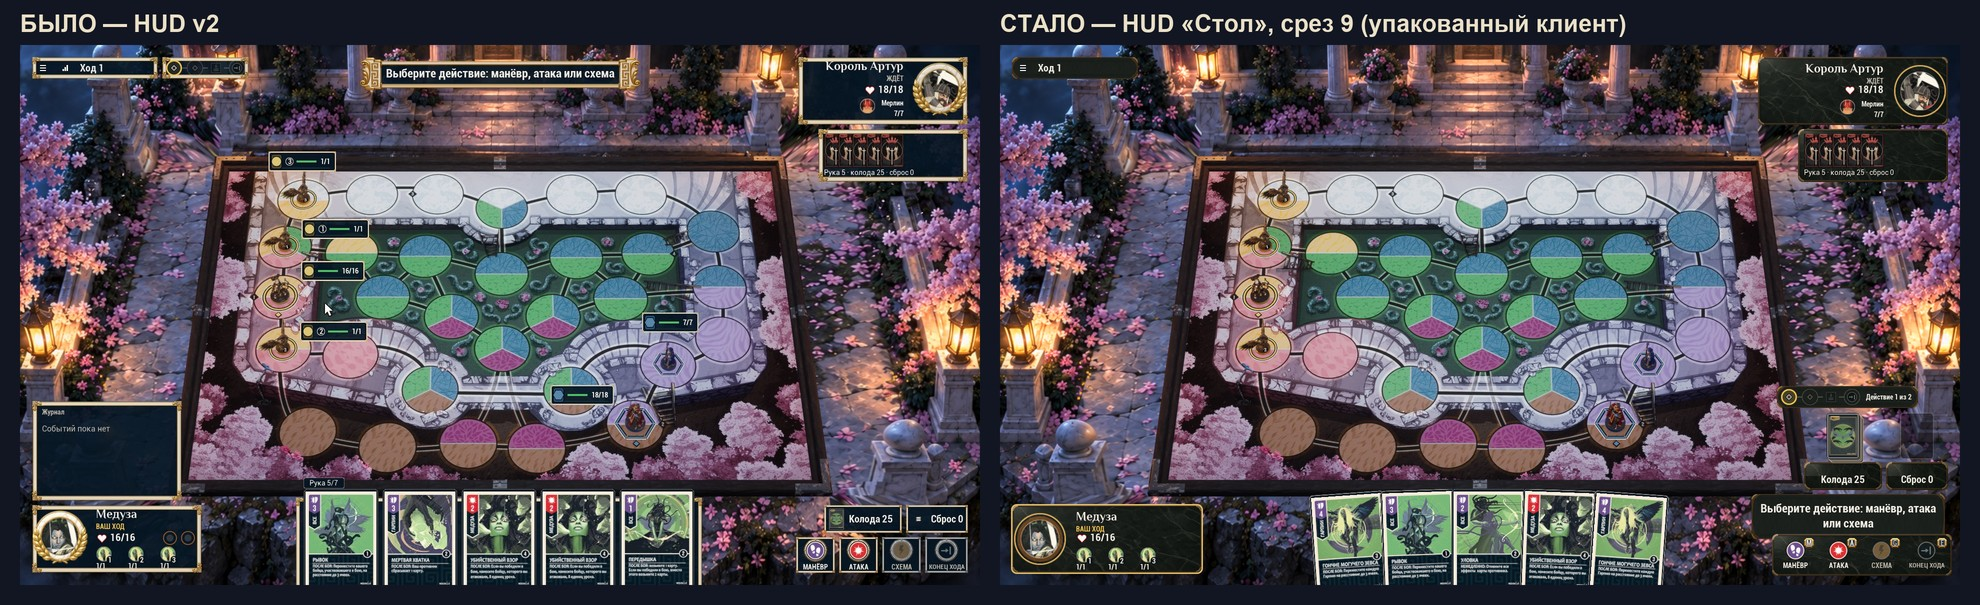
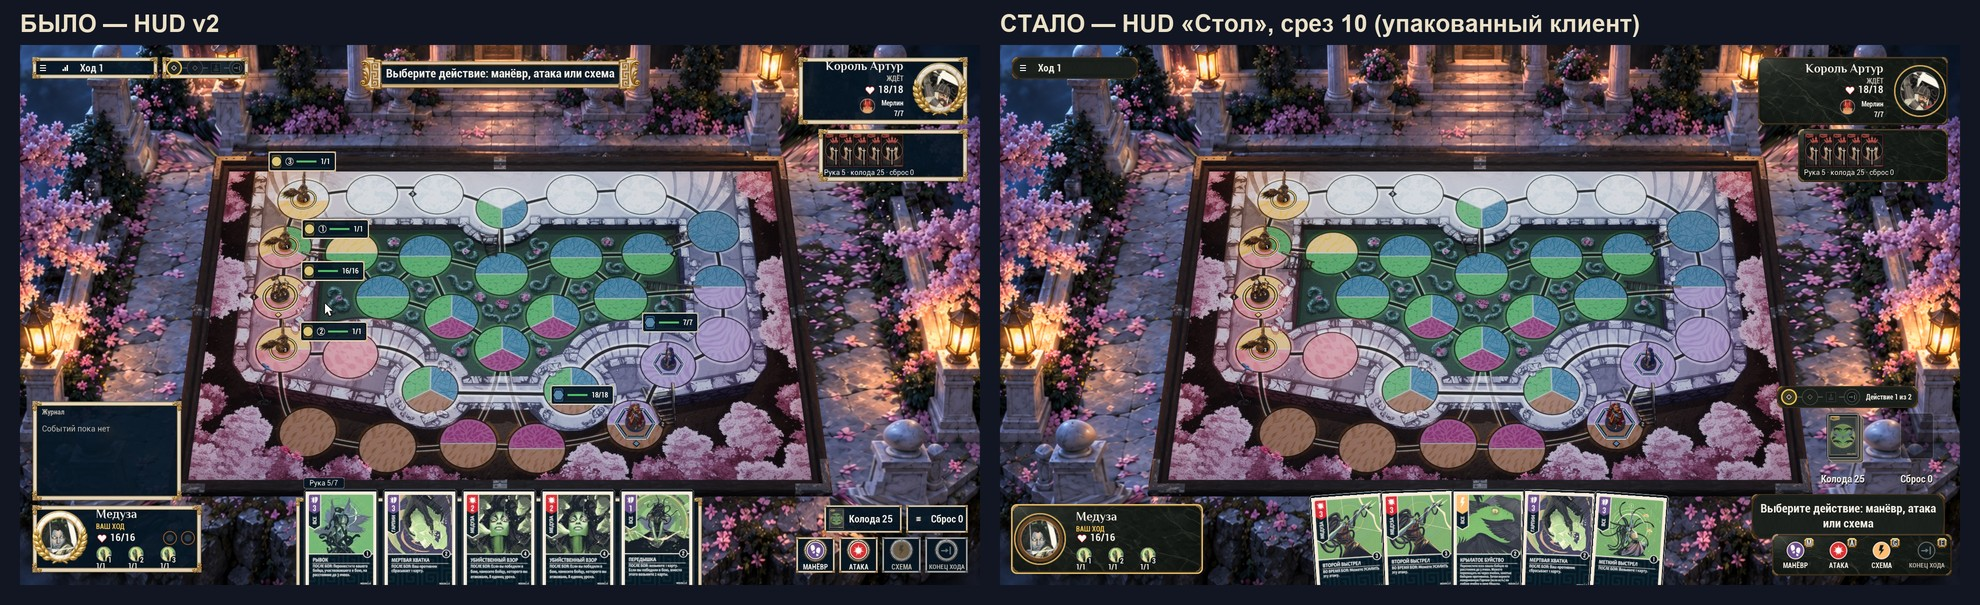
docs(hud): slice 10 and its before / after on the packaged client

diff --git a/docs/game-design/hud-redesign/07-SLICE-IN-GAME.md b/docs/game-design/hud-redesign/07-SLICE-IN-GAME.md
@@ -193,3 +193,9 @@ UE-тесты `Unmatched.S08`: 397/397.
 3. **Правая колонка.** Пять слоёв друг над другом.
 4. **Панель соперника.** Нет иерархии: имя, здоровье, помощник.
 5. **Метки команд.** Остаются как есть: кольца на подставках фигур (решение TeamColor 29.09). Здоровье на поле показывается при наведении и после урона.
+
+## Срез 10 — правая колонка без плашек стопок (2026-10-16)
+
+Плашки «Колода N / Сброс N» убраны. Счёт печатается под картой стопки прямо на столе, с тенью. Нажимается вся стопка вместе со счётом. Вживую проверено: `hud.decks.deck` открывает панель колоды, Esc её закрывает. В колонке стало на один слой меньше.
+
+Тесты Unmatched.S08 — 397/397. Упакованный клиент проверен по кадру.
